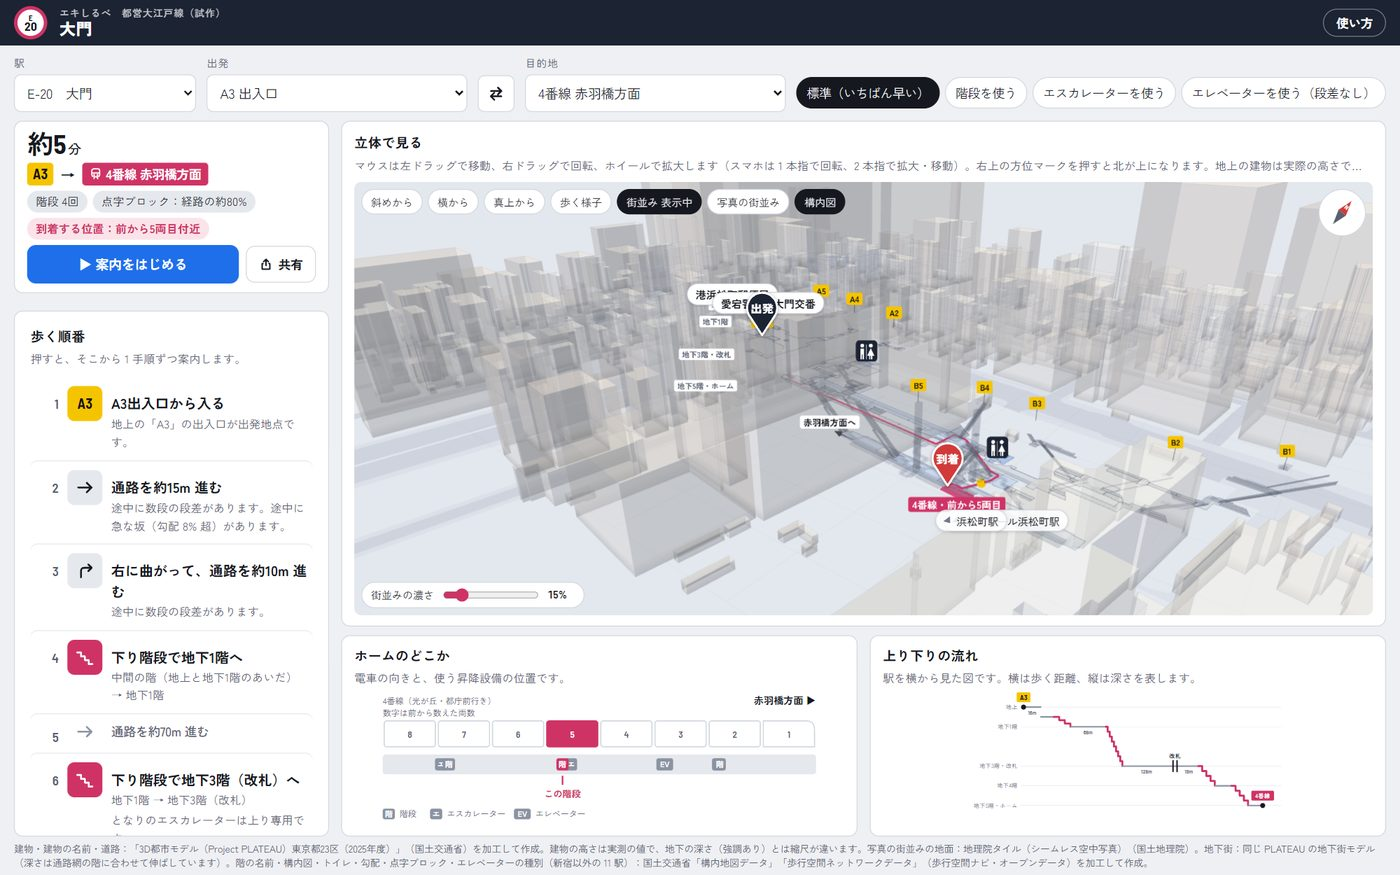
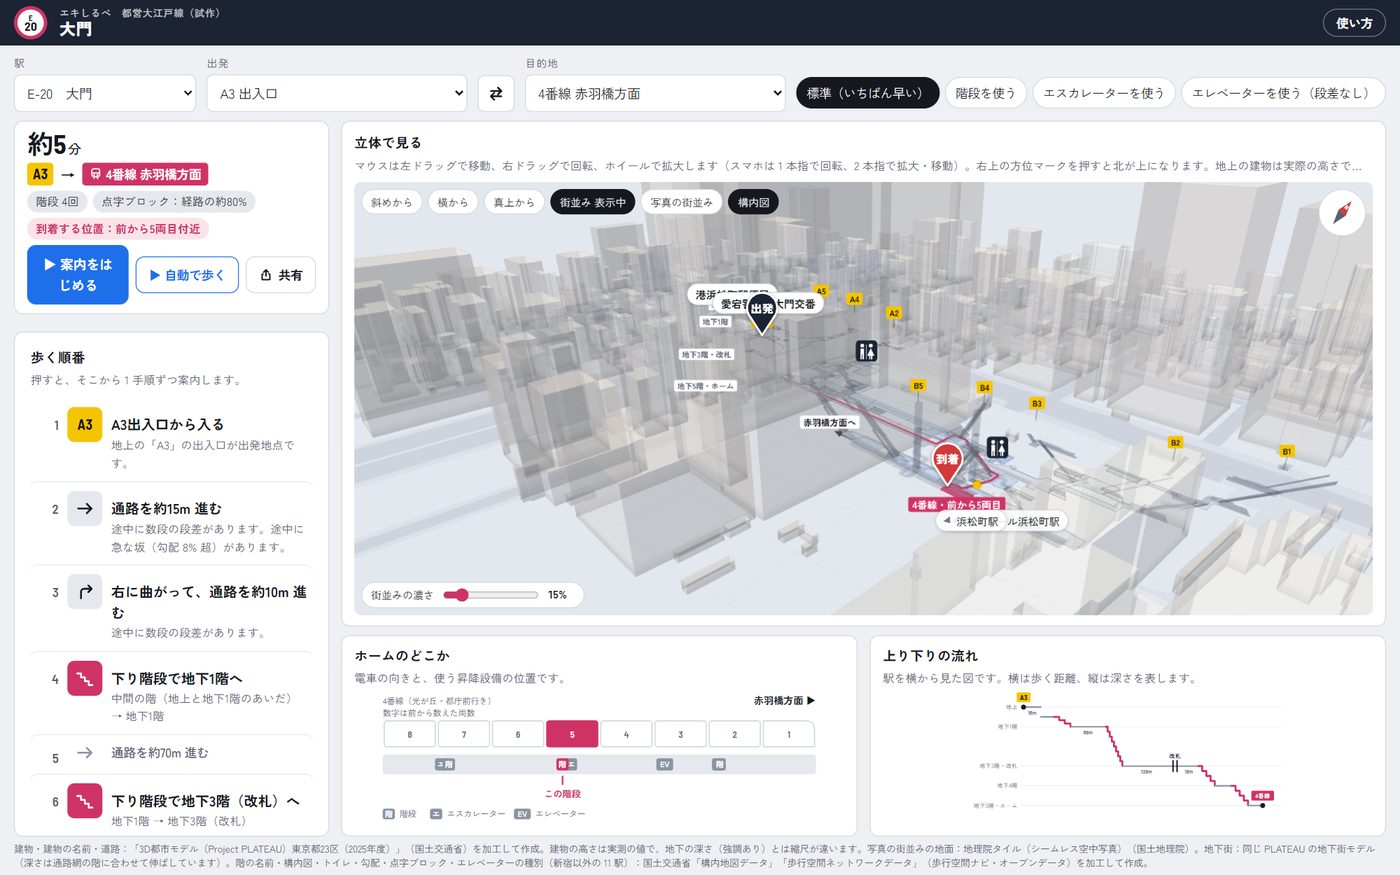
進め方を左、見え方を上。歩く順番は押したら案内

Changed region(s): [[0.0, 0.2777, 0.215, 0.9566], [0.3686, 0.216, 0.6143, 0.2469]]

diff --git a/index.html b/index.html
@@ -196,7 +196,7 @@ footer a { color: inherit; }
 .lv-txt { fill: var(--muted); font-size: 12px; font-family: var(--f-body); }
 .route { fill: none; stroke: var(--oedo); stroke-width: 4; stroke-linecap: round; stroke-linejoin: round; }
 .route.walk { stroke: var(--walk); stroke-width: 3; }
-.seg-g { cursor: default; }
+.seg-g { cursor: pointer; }
 .seg-g.on .route, .seg-g.on .route.walk { stroke: var(--sel); stroke-width: 7; }
 .dist { fill: var(--muted); font-size: 11px; font-family: var(--f-num); font-weight: 600; }
 .evbox { fill: var(--surface); stroke: var(--oedo); stroke-width: 2; }
@@ -226,6 +226,11 @@ footer a { color: inherit; }
 .share { font: inherit; font-weight: 700; font-size: 14px; padding: 9px 14px; border-radius: 10px; cursor: pointer;
   border: 1px solid var(--line); background: var(--surface); color: var(--ink); display: inline-flex; align-items: center; gap: 6px; }
 .share:hover { border-color: var(--sel); color: var(--sel); }
+/* 自動で歩く（進め方: 案内をはじめる = 手動、自動で歩く = 自動。見え方は立体図の上のボタン） */
+.auto { font: inherit; font-weight: 700; font-size: 14px; padding: 9px 14px; border-radius: 10px; cursor: pointer; white-space: nowrap;
+  border: 1px solid var(--sel); background: var(--surface); color: var(--sel); }
+.auto:hover { filter: brightness(1.08); }
+.auto[aria-pressed="true"] { background: var(--sel); color: #fff; }
 .toast { position: fixed; left: 50%; bottom: calc(96px + env(safe-area-inset-bottom, 0px)); translate: -50% 0; z-index: 30; pointer-events: none;
   background: var(--ink); color: var(--bg); font-size: 14px; padding: 8px 16px; border-radius: 999px; opacity: 0; transition: opacity .2s; }
 .toast.on { opacity: 1; }
@@ -1523,7 +1528,9 @@ var View3D = (function () {
     if (ripple && on) ripple.visible = false;
     var keep = sel ? sel.i : -1;
     highlight(keep);
-    if (on) fpvStart(keep);
+    // リアル視点は見え方の切り替えだけ。手順を選んでいればその区間を、選んでいなければ出発地点に立って前を見る（歩き出さない。
+    // 経路全体を歩くのは「自動で歩く」。2026-10-08 利用者「進め方を左、見え方を上」）
+    if (on) fpvStart(keep >= 0 ? keep : 0);
     else { fpvWalk = null; focus(keep); }
   }
 
@@ -2540,7 +2547,7 @@ var View3D = (function () {
         '<section class="panel" aria-labelledby="h-steps"><h2 id="h-steps">歩く順番</h2><p class="hint">押すと、そこから 1 手順ずつ案内します。</p>' + stepsHTML(g) + '</section></div>' +
           '<section class="panel p3d" aria-labelledby="h-3d"><h2 id="h-3d">立体で見る</h2><p class="hint" title="マウスは左ドラッグで移動、右ドラッグで回転、ホイールで拡大します（スマホは 1 本指で回転、2 本指で拡大・移動）。右上の方位マークを押すと北が上になります。地上の建物は実際の高さです。手順を押すとその場所に寄ります。高さは見やすいように強調しています。">マウスは左ドラッグで移動、右ドラッグで回転、ホイールで拡大します（スマホは 1 本指で回転、2 本指で拡大・移動）。右上の方位マークを押すと北が上になります。地上の建物は実際の高さです。手順を押すとその場所に寄ります。高さは見やすいように強調しています。</p>' +
             '<div class="stage" id="stage"><div class="views">' +
-              '<button type="button" data-view="oblique">斜めから</button><button type="button" data-view="side">横から</button><button type="button" data-view="top">真上から</button><button type="button" data-view="play">歩く様子</button>' +
+              '<button type="button" data-view="oblique">斜めから</button><button type="button" data-view="side">横から</button><button type="button" data-view="top">真上から</button>' +
               (View3D.hasCity ? '<button type="button" id="city-toggle" aria-pressed="' + View3D.city + '">街並み ' + (View3D.city ? '表示中' : '非表示') + '</button>' : '') +
               (View3D.hasPhoto ? '<button type="button" id="photo-toggle" aria-pressed="' + View3D.photoCity + '" title="PLATEAU の写真付きの建物と、航空写真の地面に切り替える（データが多いので通信に注意）"' + (View3D.city ? '' : ' hidden') + '>写真の街並み</button>' : '') +
               (View3D.hasSpaces(st) ? '<button type="button" id="smap-toggle" aria-pressed="' + View3D.spaces + '" title="国土交通省の構内地図データから、通路・階段・エスカレーターなどの床の形を階ごとに描く">構内図</button>' : '') +
@@ -2590,6 +2597,11 @@ var View3D = (function () {
       View3D.setCityAlpha(a);
     });
     $('nav-start').addEventListener('click', function () { startNav(0); });
+    // 自動で歩く（前の「歩く様子」）。2026-10-08 利用者「左にボタンを集めた方がいいのではないか」→ 進め方（手動・自動）を左に、見え方を立体図の上に
+    $('auto-walk').addEventListener('click', function () {
+      View3D.view('play');
+      if (window.innerWidth < 900 && $('stage')) $('stage').scrollIntoView({ behavior: 'smooth', block: 'center' }); // スマホは立体図が下にあるので見せる
+    });
     $('share').addEventListener('click', shareRoute);
     document.querySelectorAll('[data-view]').forEach(function (b) {
       b.addEventListener('click', function () { View3D.view(b.dataset.view); if ($('fpv-toggle')) $('fpv-toggle').setAttribute('aria-pressed', View3D.fpv); });
@@ -2611,7 +2623,8 @@ var View3D = (function () {
       '<div style="display:grid;gap:6px;min-width:0">' +
         '<div class="route-line">' + epBadge(from) + '<span aria-hidden="true">→</span><span class="sr-only" style="position:absolute;left:-9999px">から</span>' + epBadge(to) + '</div>' +
         '<div class="chips">' + chips.join('') + '</div>' +
-      '</div><div class="acts"><button type="button" class="start" id="nav-start">▶ 案内をはじめる</button>' +
+      '</div><div class="acts"><button type="button" class="start" id="nav-start" title="1 手順ずつ「つぎへ」で進める">▶ 案内をはじめる</button>' +
+      '<button type="button" class="auto" id="auto-walk" aria-pressed="false" title="経路全体を自動で歩いて見せる（リアル視点のときは目の高さで）">▶ 自動で歩く</button>' +
       '<button type="button" class="share" id="share" title="この案内のリンクを送る（開くと同じ案内が出ます）">' + icon('share', 16) + '共有</button></div></div>';
   }
 
@@ -2927,32 +2940,24 @@ var View3D = (function () {
   // 手順と断面図を連動させる
   function bindHover() {
     var lis = document.querySelectorAll('ol.steps li'), gs = document.querySelectorAll('.seg-g');
-    // 「歩く様子」の再生中は、ボタンを「■ 止める」にする（もう一度押すと止まる）
+    // 「自動で歩く」の再生中は、ボタンを「■ 止める」にする（もう一度押すと止まる）
     View3D.onPlay = function (on) {
-      var b = document.querySelector('[data-view="play"]'); if (!b) return;
-      b.textContent = on ? '■ 止める' : '歩く様子';
+      var b = $('auto-walk'); if (!b) return;
+      b.textContent = on ? '■ 止める' : '▶ 自動で歩く';
       b.setAttribute('aria-pressed', on);
-      b.title = on ? '歩く様子を止める' : '';
+      b.title = on ? '自動で歩くのを止める' : '経路全体を自動で歩いて見せる（リアル視点のときは目の高さで）';
     };
     View3D.onStep = function (i) {
       lis.forEach(function (l) { l.classList.toggle('on', +l.dataset.i === i); });
       gs.forEach(function (gg) { gg.classList.toggle('on', +gg.dataset.i === i); });
       View3D.highlight(i);
     };
-    function set(i) {
-      if (i < 0) i = state.nav;
-      lis.forEach(function (l) { l.classList.toggle('on', +l.dataset.i === i); });
-      gs.forEach(function (gg) { gg.classList.toggle('on', +gg.dataset.i === i); });
-      View3D.highlight(i);
-    }
+    // マウスを重ねただけでは変えない。押したらその手順の案内を出す（2026-10-08 利用者「マウスカーソルを重ねるだけで、その案内が表示されるのはやめたい」）
     lis.forEach(function (l) {
-      l.addEventListener('mouseenter', function () { set(+l.dataset.i); });
-      l.addEventListener('mouseleave', function () { set(-1); });
       l.addEventListener('click', function () { startNav(+l.dataset.i); });
     });
     gs.forEach(function (gg) {
-      gg.addEventListener('mouseenter', function () { set(+gg.dataset.i); });
-      gg.addEventListener('mouseleave', function () { set(-1); });
+      gg.addEventListener('click', function () { startNav(+gg.dataset.i); });
     });
   }
 

diff --git a/manual.html b/manual.html
@@ -113,7 +113,7 @@ a { color: var(--sel); }
     <li><b>いまの区間</b>は、青い細い円柱の矢印で、白い「＞」の模様が進む向きに流れます。玉が始まり、矢じりが終わりです。いま歩いている階は濃く、ほかの階は薄くなります。</li>
     <li>階段・エスカレーター・エレベーターの<b>入口に波紋</b>が出ます。</li>
     <li>右上の<b>方位マーク</b>は視点と一緒に回ります。押すと北が上になります。</li>
-    <li>上のボタンで<b>斜めから／横から／真上から</b>に切り替えられます。「<b>歩く様子</b>」は経路を後ろから追いかけます。再生中はボタンが「<b>■ 止める</b>」に変わり、押すとその場で止まります（立体図をドラッグしても止まります）。</li>
+    <li>上のボタンで<b>斜めから／横から／真上から</b>に切り替えられます。進め方は左の 2 つのボタンです。「<b>▶ 案内をはじめる</b>」は 1 手順ずつ「つぎへ」で進める手動の案内、「<b>▶ 自動で歩く</b>」は経路全体を自動で後ろから追いかけます。自動で歩いているあいだはボタンが「<b>■ 止める</b>」に変わり、押すとその場で止まります（立体図をドラッグしても止まります）。</li>
     <li>階段・エスカレーターは、画面上で急すぎるとき（35 度より急）は 35 度で描きます。元データでは長い階段が短く記録されていることがあるためで、その分、手前の通路の線は短くなります。</li>
     <li>高さは見やすいように強調しています。データには実際の深さが無いので、階の順番を見やすく並べたものです。出発は紺の「出発」、目的地は赤の「到着」のピンで示します。</li>
   </ul>
@@ -147,7 +147,7 @@ a { color: var(--sel); }
     <li>新宿西口は約 19 MB を読み込みます。押した状態はこの端末に覚えます。</li>
   </ul>
   <h3>リアル視点（新宿西口）</h3>
-  <p>新宿西口では「<b>リアル視点</b>」ボタンで、地下街の中を人の目の高さで歩いて見られます。手順を選ぶとその区間を、選んでいないときや「歩く様子」では経路全体を歩きます。地下街は透明にせず、ふつうの壁・床・天井として描きます。</p>
+  <p>新宿西口では「<b>リアル視点</b>」ボタンで、地下街の中を人の目の高さで歩いて見られます。リアル視点は見え方の切り替えで、押すと出発地点に立って前を見ます。「案内をはじめる」で進めるとその手順の区間を、「自動で歩く」では経路全体を、目の高さで歩きます。地下街は透明にせず、ふつうの壁・床・天井として描きます。</p>
   <figure><img src="manual/16_real_view.jpg" alt="リアル視点の画面。地下街の通路を人の目の高さで見ていて、床に進む向きの青い矢印が並んでいる。左の歩く順番では「通路を約30m 進む」が選ばれている" loading="lazy"><figcaption>リアル視点（新宿西口、D5 → 1番線の「通路を約30m 進む」）。床の青い「↑」が進む向き</figcaption></figure>
   <figure><img src="manual/17_real_gate.jpg" alt="リアル視点の画面。通路の先に改札機の列と緑の「改札」の案内板が見える。左の案内カードは「改札に入る」" loading="lazy"><figcaption>改札の手前。改札機の列と緑の「改札」の案内板が見えます</figcaption></figure>
   <ul>
